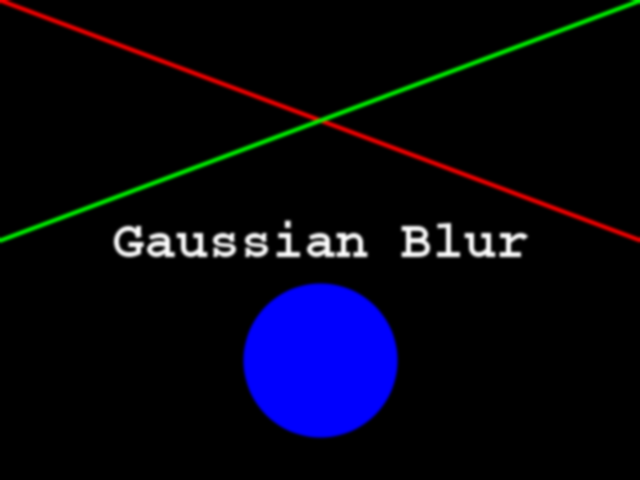
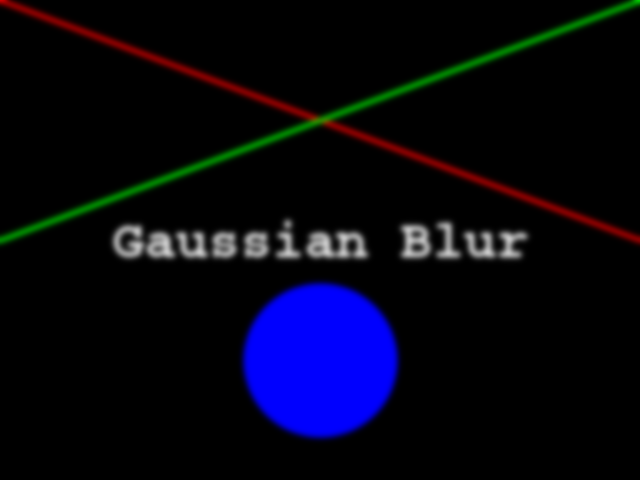
minor corrections

diff --git a/episodes/06-blurring.md b/episodes/06-blurring.md
@@ -290,6 +290,7 @@ discrete Gaussian can only approximate the real function. The `truncate`
 parameter steers at what distance to the center of the function it is not
 approximated any more. In the above example we set `truncate` to 3.5. With a
 `sigma` of 1.0 the resulting kernel size would be 7.
+The default value for `truncate` in sklearn is 4.0.
 The last parameter is to tell skimage how to interpret our image, that has three
 dimensions, as a multichannel color image.
 After the blur filter has been executed, the program wraps things up by 
@@ -308,7 +309,7 @@ Here is a constructed image to use as the input for the preceding program.
 
 When the program runs, it displays the original image, applies the filter, 
 and then shows the blurred result. The following image is the result after
-applying a filter with a sigma of 1.0.
+applying a filter with a sigma of 3.0.
 
 ![Gaussian blurred image](../fig/05-gaussian-blurred.png)
 
